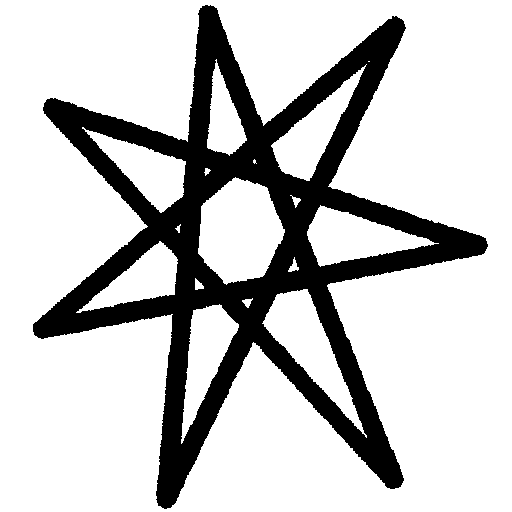
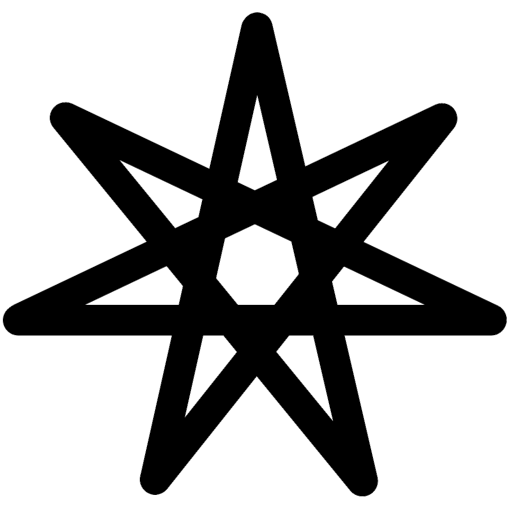
調整label的樣式
1. 重畫label的圖
2. 讓圖的占比變大
3. 把按鈕變大
4. 調整文字排版

Changed region(s): [[0.0, 0.0, 1.0, 1.0], [0.375, 0.875, 0.4062, 0.9062]]

diff --git a/PatternRecognitionApp/src/main/java/indi/IalvinchangI/patternrecognitionapp/gui/TeachingPanel.java b/PatternRecognitionApp/src/main/java/indi/IalvinchangI/patternrecognitionapp/gui/TeachingPanel.java
@@ -82,7 +82,7 @@ public class TeachingPanel extends ShowableMessagePanel {
                     "<ul style='margin-left: 0'>" + 
                         "<li> 左邊白色的那一大塊是畫布，用來「畫圖形」的。<br> 另外，這個畫布很特別，他只能畫一筆，所以所有的圖形只能「一筆完成」。 </li> " + 
                         "<li> 右邊那一排有圖有文字的按鈕是標籤，點選後可以幫左邊畫好的圖形「上標籤」。 </li>" + 
-                        "<li> 畫布下面那一排按鈕是你之前畫過的圖，你可以點擊然後修改之前畫的圖檔。<br> 最右邊那顆不會動的按鈕是「新增圖檔的按鈕」。 </li>" + 
+                        "<li> 畫布下面那一排按鈕是你之前畫過的圖，你可以點擊然後修改之前畫的圖檔。<br> 最右邊那顆有加號的按鈕是「新增圖檔的按鈕」。 </li>" + 
                         "<li> 標籤下面那一顆比較大的按鈕是「存檔按鈕」（他在新增圖檔的按鈕右邊）。<br> 在按下存檔按鈕前，還請確認每個圖檔的圖和標籤是正確的。 </li>" + 
                     "</ul>" + 
                     "<p> 如果你有圖檔還沒完成，在按下「新增圖檔的按鈕」或「存檔按鈕」時會跳出警告 </p>" + 
@@ -202,6 +202,5 @@ public class TeachingPanel extends ShowableMessagePanel {
             this.rightButton.setVisible(false);
         }
         this.teachContent = 0;
-        // TODO
     }
 }

diff --git a/PatternRecognitionApp/src/main/java/indi/IalvinchangI/patternrecognitionapp/gui/drawing/LabelPanel.java b/PatternRecognitionApp/src/main/java/indi/IalvinchangI/patternrecognitionapp/gui/drawing/LabelPanel.java
@@ -24,9 +24,9 @@ class LabelPanel extends NormalScrollPanel {
 
     public static final Font LABEL_FONT = SUBTITLE_FONT;
 
-    public static final int BUTTON_WIDTH = 140;
+    public static final int BUTTON_WIDTH = 180;
 
-    public static final int BUTTON_HEIGHT = 50;
+    public static final int BUTTON_HEIGHT = 80;
 
 
     /**
